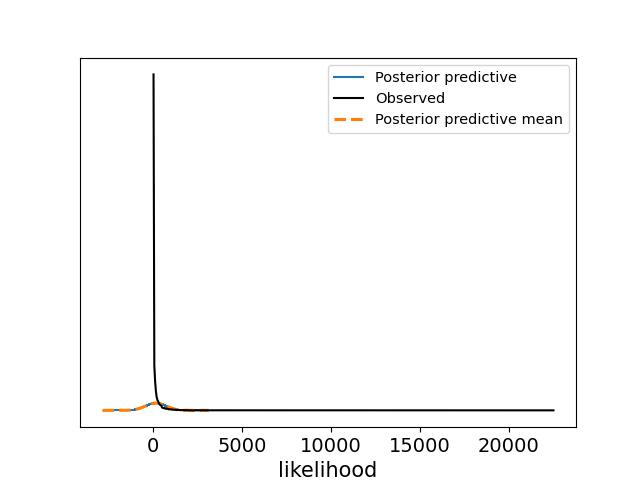
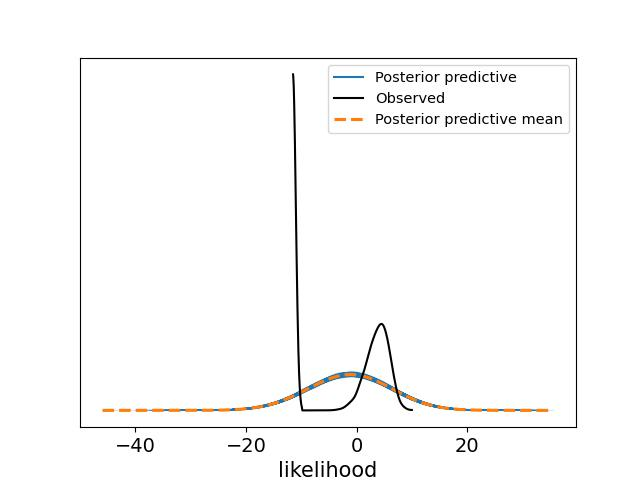
Try exponential regression

diff --git a/bayesian_regression.py b/bayesian_regression.py
@@ -9,7 +9,7 @@ data = pd.read_csv("the_arctic_plant_aboveground_biomass_synthesis_dataset.csv",
 data = data[data['biomass_density_gm2'].notnull()]
 
 y = data["biomass_density_gm2"].to_numpy(copy=True)
-
+y = y + 0.00001
 
 X_year = data["year"].to_numpy(copy=True)
 X_year = X_year - np.min(X_year)
@@ -49,7 +49,7 @@ with pm.Model() as m2d:
     mu = pm.math.dot(X_data, beta)
 
     # likelihood
-    pm.Normal("likelihood", mu=mu, sigma=sigma, observed=y)
+    pm.Normal("likelihood", mu=mu, sigma=sigma, observed=np.log(y))
 
     # Bayesian R2
     sse = (n - p) * variance
@@ -58,7 +58,7 @@ with pm.Model() as m2d:
     sst = pm.math.dot(cy, cy)
     br2 = pm.Deterministic("br2", 1 - sse / sst)
     
-    trace = pm.sample(5000, cores=1)
+    trace = pm.sample(1, cores=1)
     ppc = pm.sample_posterior_predictive(trace)
 
 
